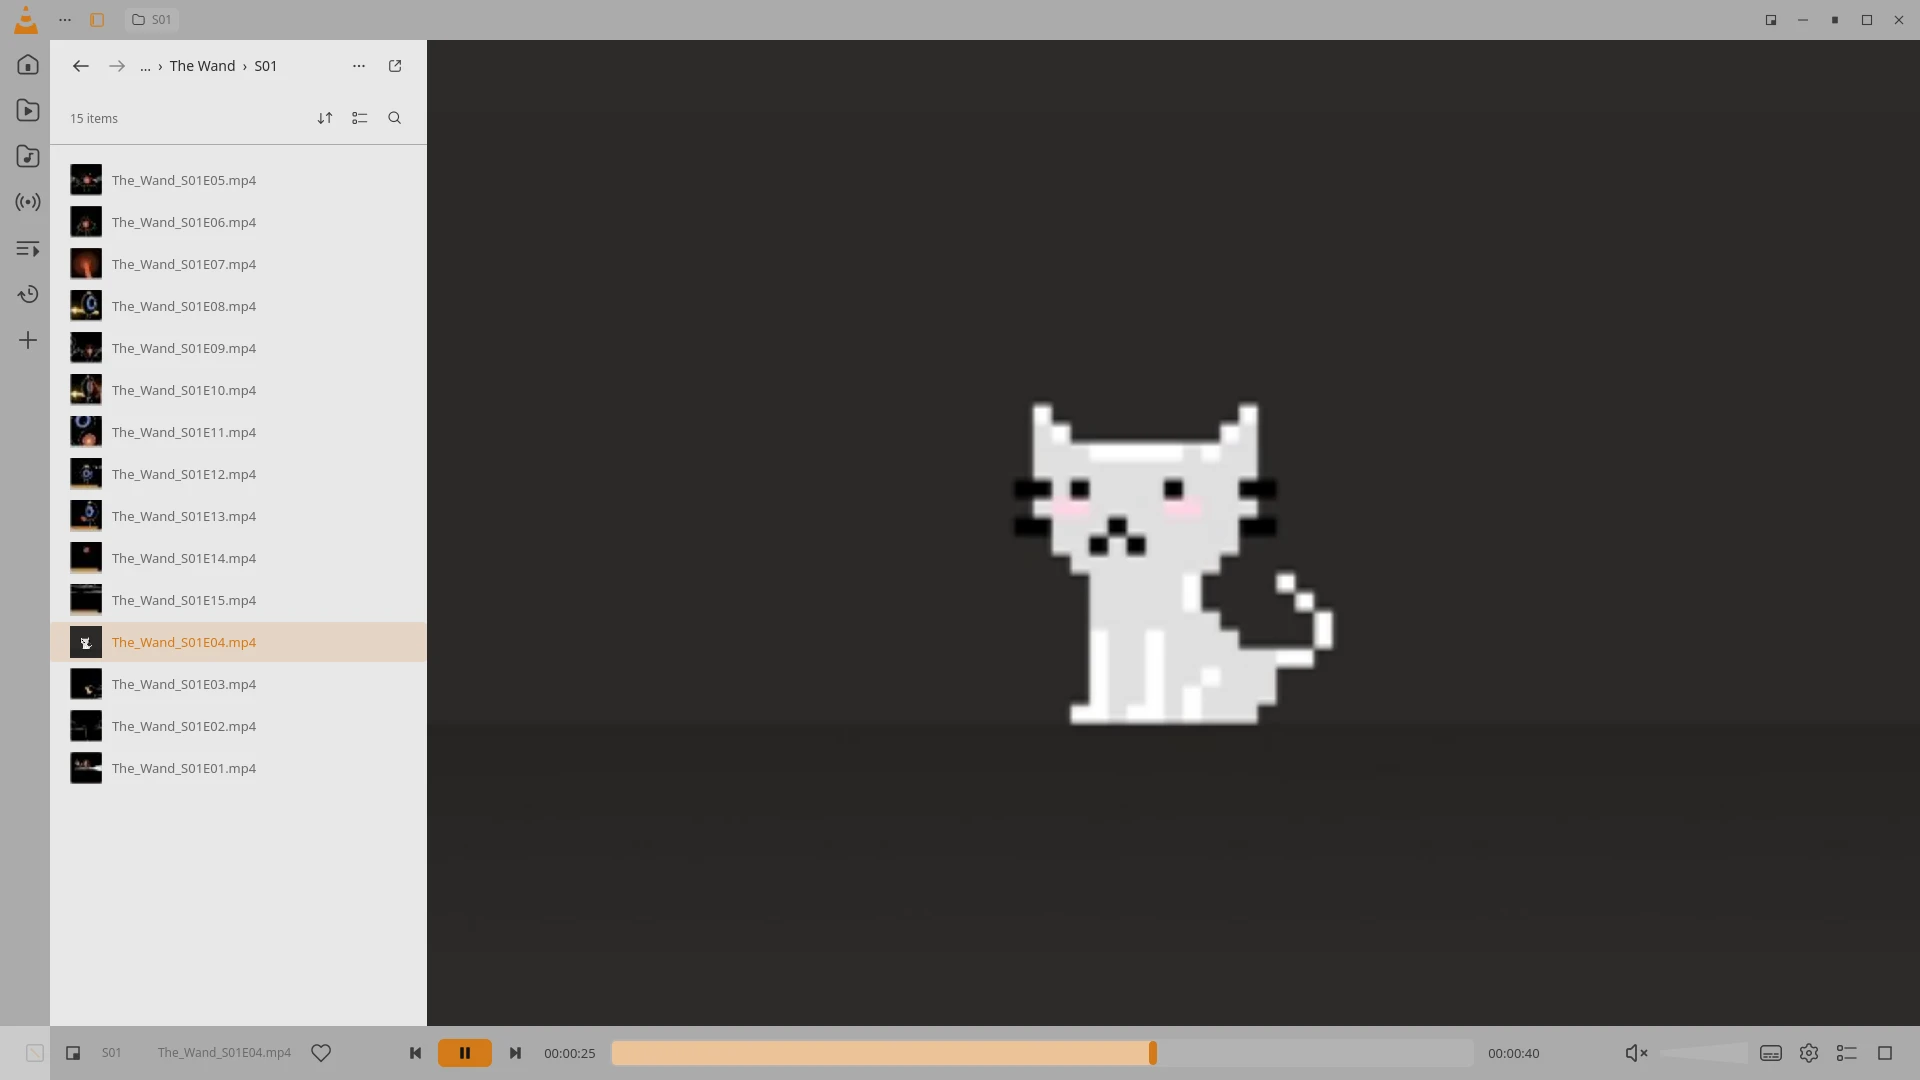
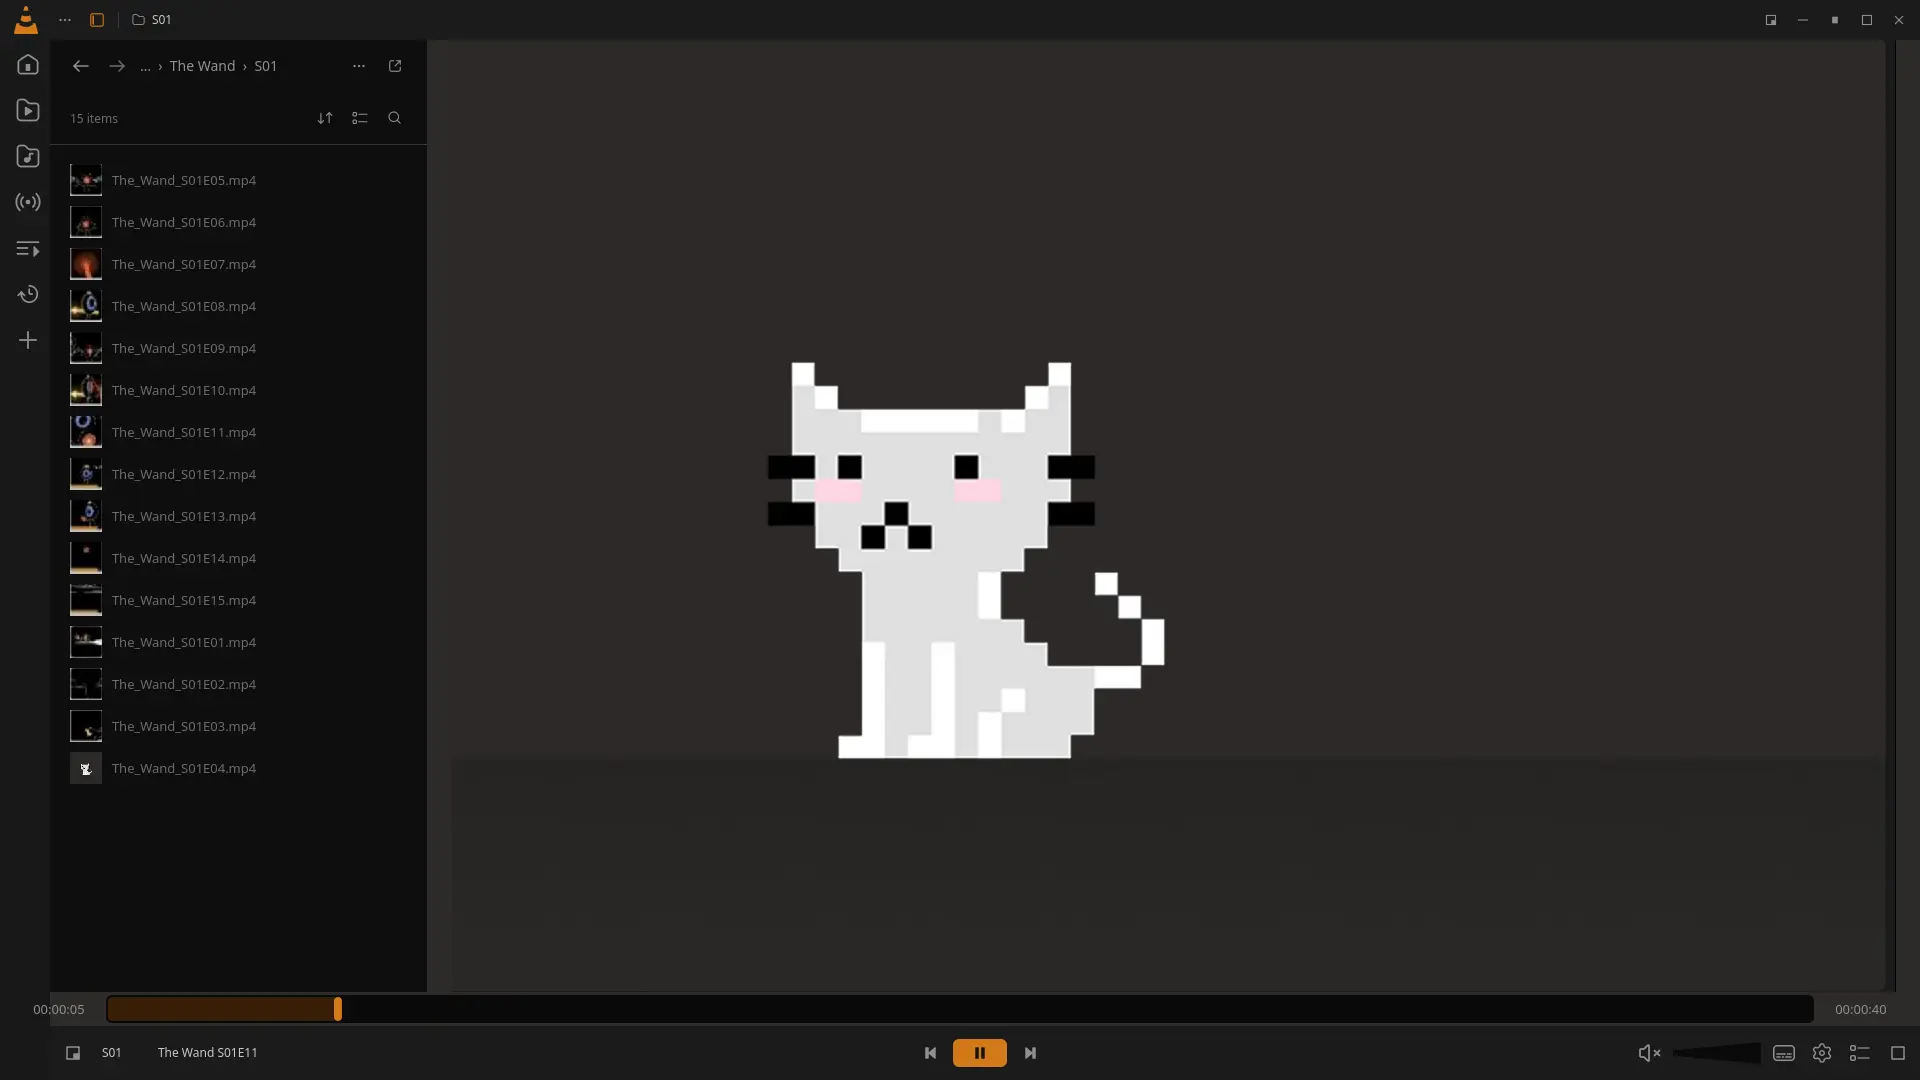
Match customized player toolbar to Figma

diff --git a/qml/ControlBar.qml b/qml/ControlBar.qml
@@ -5,6 +5,8 @@ import Neo 1.0
 Rectangle {
     id: root
     property var items: Theme.layoutList()
+    property bool splitTimeline: false
+    property Item externalTimelineBar: null
     property var renderedItems: {
         const result = items.slice()
         if (player.hasMedia && !player.hasVideo) {
@@ -15,10 +17,12 @@ Rectangle {
             if (playIndex >= 0 && result.indexOf("fwd15") < 0)
                 result.splice(playIndex + 1, 0, "fwd15")
         }
-        let insertAt = result.indexOf("next")
-        if (insertAt >= 0) insertAt += 1
-        else insertAt = result.indexOf("play") >= 0 ? result.indexOf("play") + 1 : 0
-        result.splice(insertAt, 0, "__timeline")
+        if (!splitTimeline) {
+            let insertAt = result.indexOf("next")
+            if (insertAt >= 0) insertAt += 1
+            else insertAt = result.indexOf("play") >= 0 ? result.indexOf("play") + 1 : 0
+            result.splice(insertAt, 0, "__timeline")
+        }
         return result
     }
     property bool preview: false
@@ -27,7 +31,7 @@ Rectangle {
 
     function findControl(id) {
         if (["time", "seek", "length"].includes(id))
-            return timelineBar
+            return externalTimelineBar || timelineBar
         for (let i = 0; i < controls.count; ++i) {
             const item = controls.itemAt(i)
             if (item && item.controlId === id)
@@ -41,6 +45,38 @@ Rectangle {
             return false
         item.contentItem.forceActiveFocus()
         return item.contentItem.activeFocus
+    }
+    function splitSpacerWidth(index) {
+        let firstSpacer = -1
+        let secondSpacer = -1
+        let leftWidth = 0
+        let centerWidth = 0
+        let rightWidth = 0
+        let leftCount = 0
+        let centerCount = 0
+        let visibleCount = 0
+        for (let i = 0; i < controls.count; ++i) {
+            const item = controls.itemAt(i)
+            if (!item || !item.visible) continue
+            ++visibleCount
+            if (item.controlId === "spacer") {
+                if (firstSpacer < 0) firstSpacer = i
+                else if (secondSpacer < 0) secondSpacer = i
+                continue
+            }
+            if (firstSpacer < 0) { leftWidth += item.implicitWidth; ++leftCount }
+            else if (secondSpacer < 0) { centerWidth += item.implicitWidth; ++centerCount }
+            else rightWidth += item.implicitWidth
+        }
+        if (firstSpacer < 0 || secondSpacer < 0) return 0
+        const gap = width < 720 ? 2 : 8
+        const margin = width < 720 ? 6 : 20
+        const free = Math.max(0, width - margin * 2 - gap * Math.max(0, visibleCount - 1)
+                              - leftWidth - centerWidth - rightWidth)
+        const firstWidth = Math.max(0, Math.min(free,
+            width / 2 - margin - leftWidth - gap * (leftCount + 1)
+            - centerWidth / 2 - gap * Math.max(0, centerCount - 1) / 2 + 19))
+        return index === firstSpacer ? firstWidth : free - firstWidth
     }
 
     color: Theme.bar
@@ -63,8 +99,9 @@ Rectangle {
                 compactSpacer: root.width < 720 && controlId === "spacer"
                 compactLeadingSpacer: root.width < 720 && controlId === "spacer"
                                       && root.items.indexOf("prev") >= 0 && index < root.items.indexOf("prev")
-                Layout.fillWidth: flexible
-                Layout.preferredWidth: implicitWidth
+                Layout.fillWidth: flexible && !root.splitTimeline
+                Layout.preferredWidth: root.splitTimeline && controlId === "spacer"
+                                      ? root.splitSpacerWidth(index) : implicitWidth
                 Layout.minimumWidth: controlId === "__timeline" ? (root.width < 400 ? 48 : root.width < 720 ? 150 : 250)
                                      : controlId === "seek" ? (root.width < 720 ? 48 : 80) : implicitWidth
                 Layout.alignment: Qt.AlignVCenter

diff --git a/qml/Main.qml b/qml/Main.qml
@@ -145,6 +145,10 @@ ApplicationWindow {
     readonly property bool chromeShown: !overlayMode || topHot || bottomHot || popupsOpen
     readonly property bool topShown: !overlayMode || topHot || mainMenu.visible
     readonly property bool bottomShown: !libraryFullPage && (!overlayMode || bottomHot || tracksPopup.visible || contextMenu.visible)
+    readonly property bool splitTimelineActive: Theme.layoutList().includes("filename")
+                                                && player.hasMedia && player.hasVideo
+                                                && !onboarding.visible && navigationPage !== "home"
+                                                && !libraryFullPage
     readonly property bool sidePanelOpen: libraryOpen || musicSidebarOpen || folderSidebarOpen
     readonly property bool navigationShown: sidePanelOpen || libraryFullPage
                                            || (navigationPage === "home" && !sidePanelOpen)
@@ -960,7 +964,8 @@ ApplicationWindow {
                 const top = win.overlayMode && y < Theme.topHeight + 28
                 if (top) { win.topHot = true; topHide.stop() }
                 else if (win.topHot && !topHide.running) topHide.start()
-                const hot = win.overlayMode && y > win.height - Theme.barHeight - 44
+                const hot = win.overlayMode && y > win.height - Theme.barHeight
+                            - (win.splitTimelineActive ? splitTimeline.height : 0) - 44
                 if (hot) { win.bottomHot = true; bottomHide.stop() }
                 else if (win.bottomHot && !bottomHide.running) bottomHide.start()
             }
@@ -982,7 +987,7 @@ ApplicationWindow {
             anchors.bottomMargin: onboarding.themePreviewActive ? parent.height - controlBar.y
                                  : win.overlayMode || (onboarding.visible && onboarding.step === 2)
                                  || win.navigationPage === "home"
-                                 ? 0 : parent.height - controlBar.y
+                              ? 0 : parent.height - (win.splitTimelineActive ? splitTimeline.y : controlBar.y)
 
             RowLayout {
                 anchors.fill: parent
@@ -1213,6 +1218,8 @@ ApplicationWindow {
 
         ControlBar {
             id: controlBar
+            splitTimeline: win.splitTimelineActive
+            externalTimelineBar: win.splitTimelineActive ? splitTimeline : null
             anchors.left: parent.left
             anchors.right: parent.right
             anchors.leftMargin: onboarding.themePreviewActive ? onboarding.themePreviewInset : 0
@@ -1230,6 +1237,21 @@ ApplicationWindow {
             Behavior on y { NumberAnimation { duration: 140; easing.type: Easing.OutCubic } }
             Behavior on opacity { NumberAnimation { duration: 140 } }
             onAction: (id, source) => win.run(id, source)
+        }
+
+        TimelineBar {
+            id: splitTimeline
+            parent: keyCatcher
+            x: 20
+            width: Math.max(0, parent.width - 40)
+            height: 34
+            wideDesktopLabels: true
+            z: 1
+            visible: win.splitTimelineActive && (!onboarding.visible || onboarding.themePreviewActive)
+            y: win.bottomShown ? controlBar.y - height : parent.height
+            opacity: win.bottomShown ? (win.overlayMode ? 0.96 : 1) : 0
+            Behavior on y { NumberAnimation { duration: 140; easing.type: Easing.OutCubic } }
+            Behavior on opacity { NumberAnimation { duration: 140 } }
         }
 
         NavigationRail {

diff --git a/qml/TimelineBar.qml b/qml/TimelineBar.qml
@@ -12,6 +12,7 @@ Rectangle {
     property alias durationText: durationText
     property bool compact: width < 720
     property bool tiny: width < 400
+    property bool wideDesktopLabels: false
 
     color: "transparent"
     implicitWidth: tiny ? 48 : compact ? 150 : 250
@@ -25,7 +26,7 @@ Rectangle {
             id: elapsedText
             objectName: "timeline-elapsed"
             visible: !root.tiny
-            Layout.preferredWidth: root.compact ? 48 : 64
+            Layout.preferredWidth: root.compact ? 48 : root.wideDesktopLabels ? 78 : 64
             Layout.minimumWidth: Layout.preferredWidth
             Layout.alignment: Qt.AlignVCenter
             text: player.formatTime(player.time)
@@ -47,7 +48,7 @@ Rectangle {
             id: durationText
             objectName: "timeline-duration"
             visible: !root.tiny
-            Layout.preferredWidth: root.compact ? 48 : 64
+            Layout.preferredWidth: root.compact ? 48 : root.wideDesktopLabels ? 78 : 64
             Layout.minimumWidth: Layout.preferredWidth
             Layout.alignment: Qt.AlignVCenter
             text: player.formatTime(player.length)

diff --git a/qml/ControlItem.qml b/qml/ControlItem.qml
@@ -28,7 +28,9 @@ Item {
     readonly property string fileLabel: {
         const path = player.mediaUrl.toString().split(/[?#]/)[0]
         const name = path.split("/").filter(part => part.length).slice(-1)[0] || ""
-        try { return decodeURIComponent(name) } catch (error) { return name }
+        let decoded = name
+        try { decoded = decodeURIComponent(name) } catch (error) {}
+        return decoded.replace(/\.[^.]+$/, "").replace(/_+/g, " ")
     }
 
     readonly property bool flexible: controlId === "seek" || controlId === "__timeline"

diff --git a/docs/figma-parity.md b/docs/figma-parity.md
@@ -8,7 +8,7 @@ The comparison base is `upstream/main` at `6936b1c` (the repository state before
 
 Existing behavior is exercised through `scripts/smoke-test.sh`: playback and queue navigation, pause/resume, subtitle matching and presets, resume, hotkeys/bookmarks/rate, editable Neo shortcut capture/conflict/reset/persistence and mapped playback behavior, including Figma item/frame key aliases, VLC next-frame action on both `.` and legacy `E`, and previous-frame seeking, VLC preference persistence, timeline keyboard seeking, popup dismissal, side panels, and navigation/library flows. It also verifies named interface profiles, the real VLC equalizer, MP3/MP4/WebM transcoding, and UDP, RTP and HTTP outputs from the stream dialog. Each smoke-launched VLC process must exit successfully; the runner reports nonzero exits as failures. `player_facade_test` checks that the original QML-facing transport, queue, track, audio, video, playback-mode, recording, snapshot, hotkey and chapter commands still reach the injected VLC backend after the backend split. It also checks resume history and seek, bookmarks, equalizer presets, sleep timer, per-folder subtitle links and presets, subtitle display values, network location opening, and the queue's original QML property, count notification and five role names. `player_facade_test` and `player_state_store_test` use isolated temporary config directories so they do not read or modify a user's VLC Neo settings. Keep both checks passing as new work lands, and review the diff against `upstream/main` whenever an inherited file changes. The original Lucide icon set remains in `icons/`; imported Figma SVGs live separately in `assets/figma-icons/` and their content hashes are recorded in `assets/figma-icons/SHA256SUMS`. All 206 SVGs were byte-compared against the pinned Olmo Gutierrez export commit `2c4b704`; all match. The separate 64-file collection in SpeedyPete25’s repository at `08bdb004` was also checked by Git blob hash: none is byte-identical to the canonical set, and all 32 shared filenames have different contents; see the [asset audit](../assets/ATTRIBUTION.md). The palette `tokens.json` also has the same Git blob hash as the pinned export, and `sha256sum -c assets/figma-icons/SHA256SUMS` passes. A QML callsite audit replaces old Lucide names with exact Figma `file`, `folder`, `video`, `minimize` and `refresh` exports where those designs exist; `refresh-cw` now resolves to the exported `refresh.svg` instead of rendering blank. The `video-file` alias deliberately uses the exported `video-two-tone.svg` and recolors it for monochrome states. The icon provider test checks every semantic alias against its target SVG. The remaining callsites for `clipboard`, `clock`, `eye-off`, `repeat-1`, `trash-2`, `volume-1` and `volume-x` use Lucide fallbacks because the 206-file Figma export has no matching icon for those states. A static audit of the 88 distinct QML `icon`/`iconName` values resolves 81 through an exact Figma SVG or alias, seven through Lucide, and none to a missing file.
 
-This matrix tracks VLC Neo against the [VLC Redesign (Community) Figma file](https://www.figma.com/design/4JZcTRTM2ZVZdIV0S61smp/VLC-Redesign--Community---copie-) by Juxtopposed. The last successful direct browser inspection on 2026-10-29 had the copied file open. The Figma MCP is on the user's Starter-plan **View** seat and now returns its call-limit message; the design editor returns HTTP 403. On 2026-10-29 the prototype URL returned HTTP 200 in a headed Chrome session with WebGL available, but its canvas remained black and its renderer reached 132% of one CPU core; that tab was closed. Live Figma comparisons remain unavailable, and no new visual comparison is claimed in this update. Earlier inspection established that `Page 1` has 57 top-level screen frames and 46 component reference frames; the inventory below includes every screen frame, while the 46 component examples are not counted as UI coverage.
+This matrix tracks VLC Neo against the [VLC Redesign (Community) Figma file](https://www.figma.com/design/4JZcTRTM2ZVZdIV0S61smp/VLC-Redesign--Community---copie-) by Juxtopposed. On 2026-10-30, the `browser` editor opened the copied file and enabled a direct comparison of Player Customize node `2160:8732`; the resulting timeline/transport correction and refreshed screenshot are recorded below. The Figma MCP is on the user's Starter-plan **View** seat and currently returns its call-limit message; the design editor returns HTTP 403. The earlier 2026-10-29 prototype session rendered black and used 132% of one CPU core, so that tab was closed. Earlier inspection established that `Page 1` has 57 top-level screen frames and 46 component reference frames; the inventory below includes every screen frame, while the 46 component examples are not counted as UI coverage.
 The matrix has 25 grouped rows covering all 57 screen frames. Each row has an explicit status: **11 implemented, 14 partial**. “Partial” means at least one visual, behavior or environment-specific acceptance check remains open; it does not mean the listed implementation is absent.
 
 The **11 implemented / 14 partial / 0 not started** count describes Figma screen groups only (25 grouped rows covering 57 screen frames); the detailed row audit finds **23/57 frames implemented and 34/57 partial**. Across phases 05–09, **3 phases are complete, 2 are in progress, and 0 are unstarted**. The latest fully successful cross-distro code run is CI [`40962599159`](https://github.com/alexandreolives/vlc-neo/actions/runs/40962599159) for code commit `3608e34` on 2026-10-29: Arch and Linux Mint passed the build, all 14 CTests, and 882/882 real-VLC smoke assertions. Both passed the cached OpenSubtitles download-and-activate flow. A later documentation-only run, `40964838724`, is still in progress. Both also passed the full-recording waveform checks for jazz (205.72 s), classical (188.90 s) and electronic (80.71 s), the 50,000-item search and Figma light-sidebar probe. Mint install/uninstall preserved the distribution Qt version and VLC desktop entry. The HTTP proxy check confirms the configured credentials are sent after a 407 challenge; playback remains limited by VLC core as recorded in the network row. The prior [`40867519168`](https://github.com/alexandreolives/vlc-neo/actions/runs/40867519168) run also passed the repeated-input equalizer PCM probe (0 dB and +12 dB, 3.98× RMS change) and 50,000-item search (one exact row in 125 ms on Arch and 122 ms on Mint; setters of 1 ms and 0 ms). Mint install and uninstall checks preserved the distribution Qt version and VLC desktop entry in both runs. Later attempt [`40883555354`](https://github.com/alexandreolives/vlc-neo/actions/runs/40883555354) failed 4 assertions on stale pin/title/opacity expectations; `66f9658` corrected those, then [`40889358757`](https://github.com/alexandreolives/vlc-neo/actions/runs/40889358757) exposed that its extra Pin menu item made the Figma More menu contain seven items instead of six on both distros. The current follow-up keeps the six-item menu and uses `Shift+L` for folder pinning. Run [`40890692036`](https://github.com/alexandreolives/vlc-neo/actions/runs/40890692036) passed the build, 14 CTests, preference audits, filters, equalizer, waveform, 110-item library, 50,000-item search and Figma sidebar probes on both distributions; the full smoke finished at 872 passed and 4 failed on each because the playlist keyboard scenario had a missing opening quote in its test expression. `40895499211` and `40899084526` verify that correction. Run [`40909671354`](https://github.com/alexandreolives/vlc-neo/actions/runs/40909671354) completed successfully on both distributions: Arch and Mint each passed all 14 CTests and 879/879 smoke assertions, including the Figma folder-poster sequence.
@@ -316,3 +316,7 @@ OpenSubtitles search-dialog follow-up (2026-10-29): Figma node `1919:9278` place
 
 
 OpenSubtitles action-label alignment (2026-10-29): the authenticated `browser` reference at Figma node `1919:9278` shows the primary action as **Save**. The online-result branch had said “Download and add”; it now uses the Figma label while retaining its download-and-activate behavior. The OpenSubtitles real-VLC smoke asserts the label, selects the exact-file result, downloads its cached SRT, confirms VLC selects the subtitle track, and closes the dialog. The updated [`opensubtitles-results.webp`](screenshots/opensubtitles-results.webp) shows the Figma label. Local verification: build succeeded, CTest 14/14, full real-VLC smoke 887/887. Cross-distro confirmation is pending.
+
+Player custom-layout timeline alignment (2026-10-30): a fresh `browser` comparison of Figma node `2160:8732` shows the saved Filename layout has two rows: a full-width timeline above the movable transport row. The timeline now sits in a 34 px row inset 20 px from the window edges, with wider desktop time labels; the lower row keeps Previous/Play/Next centered while metadata and audio/settings actions stay at the sides. The default Figma toolbar remains a single 54 px row. A focused real-VLC sidebar run asserts the custom timeline spans the window, meets the controls row without a gap, and centers transport; all 15 episode thumbnails decode. The refreshed [`customize-folder-browser.webp`](screenshots/customize-folder-browser.webp) uses Figma's dark theme, all 15 reference filenames, the exact E11 display title, and no extra favorite action.
+
+Latest local verification (2026-10-30, current worktree): the Debug build succeeds, CTest passes **14/14**, the full real-VLC smoke suite passes **887/887**, and the focused Figma sidebar probe passes with 15/15 thumbnails. The installed plugin SHA-256 matches the build, and the relaunched VLC Neo process maps that plugin. Cross-distro CI for the custom-layout update is pending.
